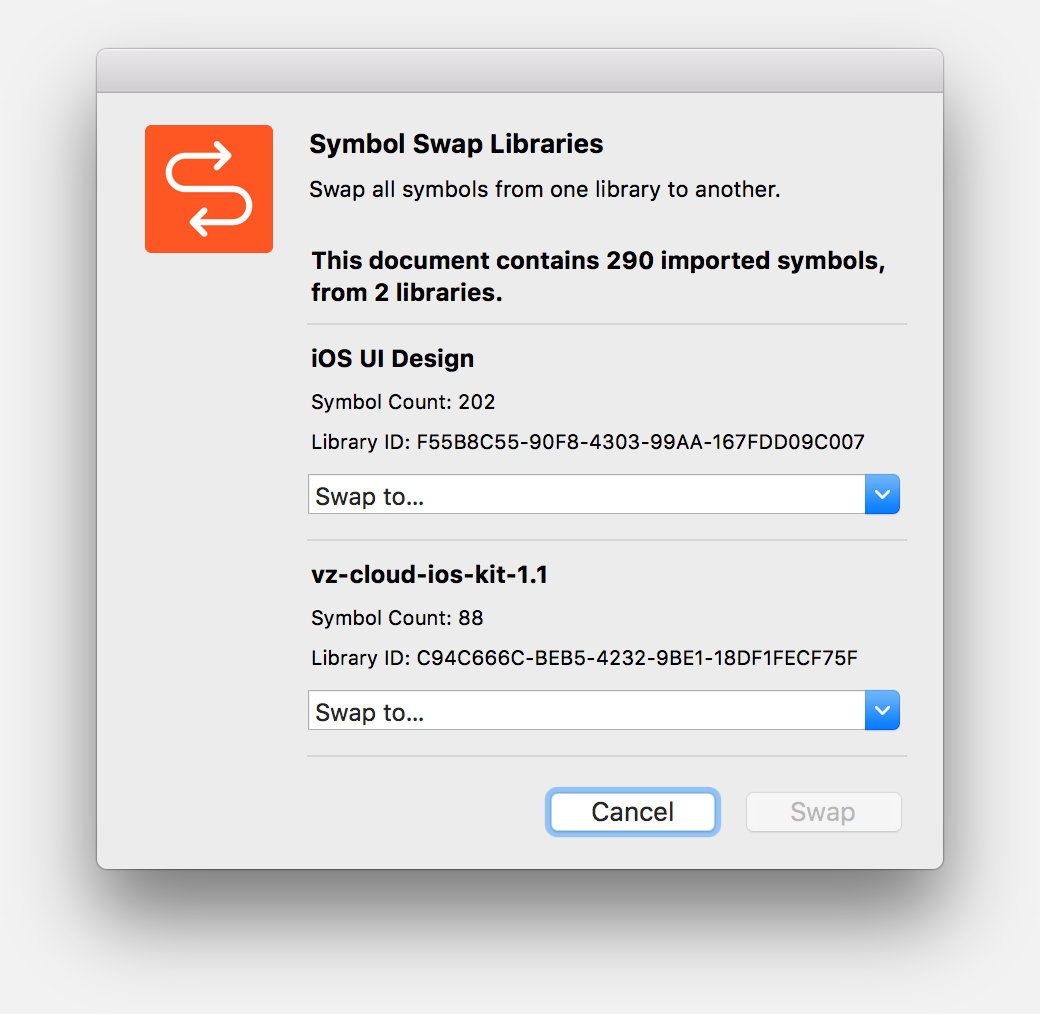
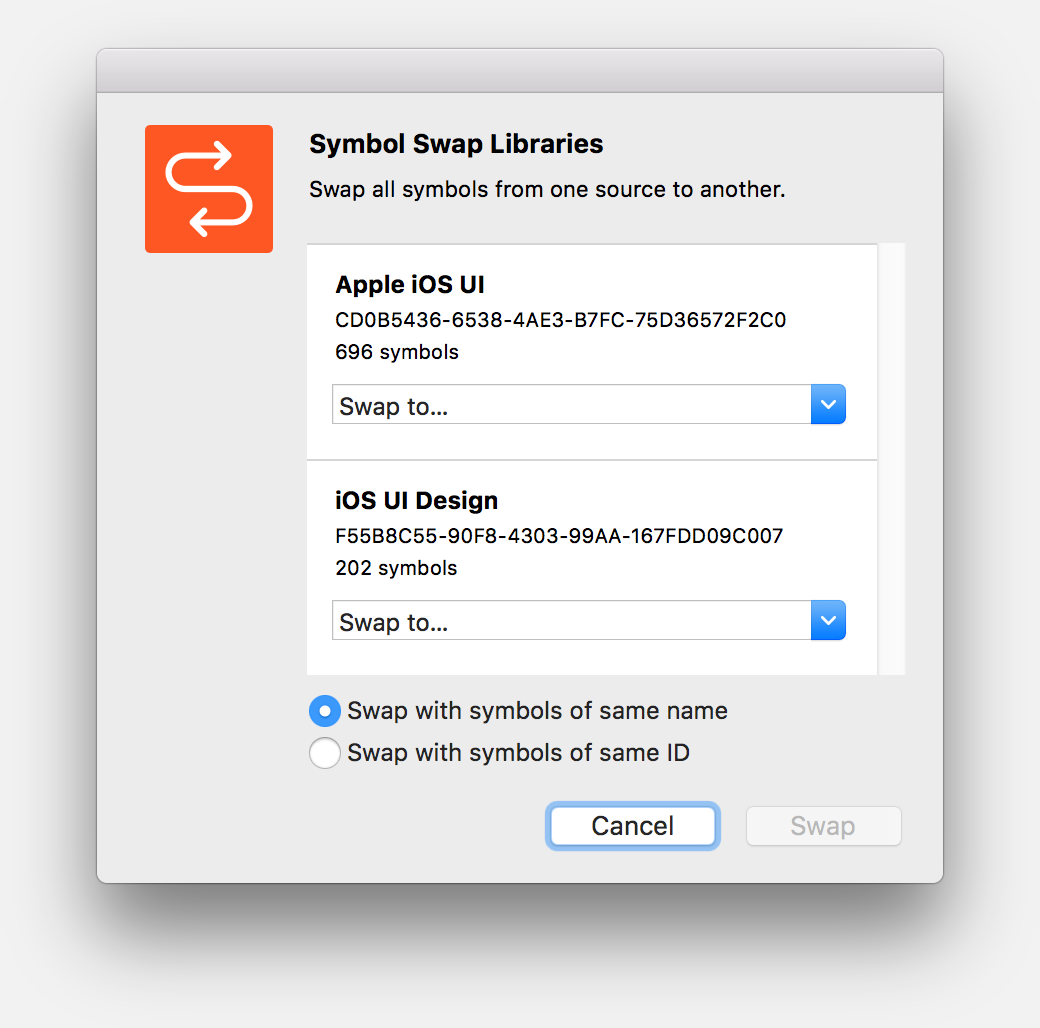
Added ability to swap libraries using symbol names instead of IDs.

diff --git a/README.md b/README.md
@@ -42,6 +42,7 @@ To find your plugins directory...
 
 # Changelog
 
+* **0.14** - Added ability to swap libraries using symbol names instead of IDs.
 * **0.13** - Fix for "alertWindow.buttons is not a function" issue introduced in last update.
 * **0.12** - Library swapping window is now scrollable.
 * **0.11** - Added support for migrating all symbols from current document to library, and added report for ignored symbols.
